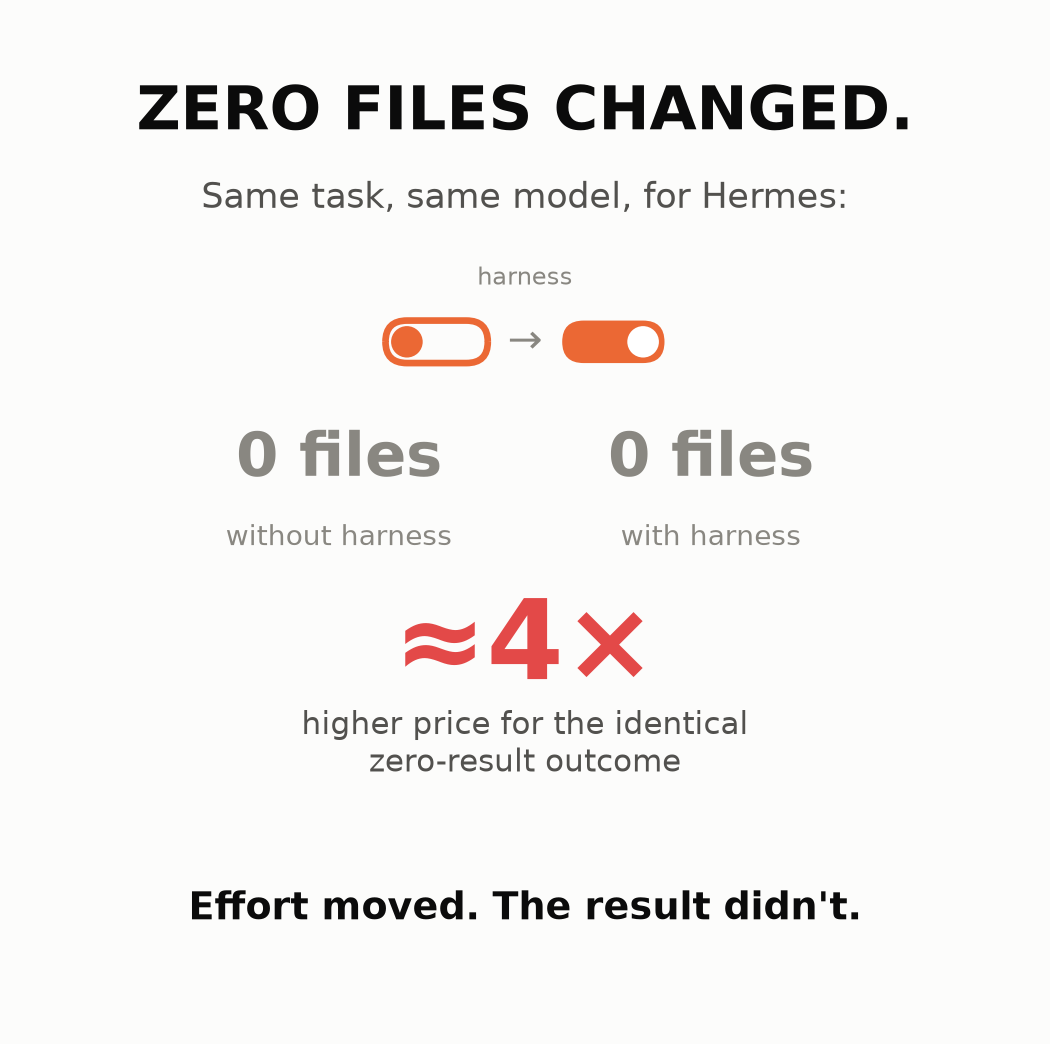
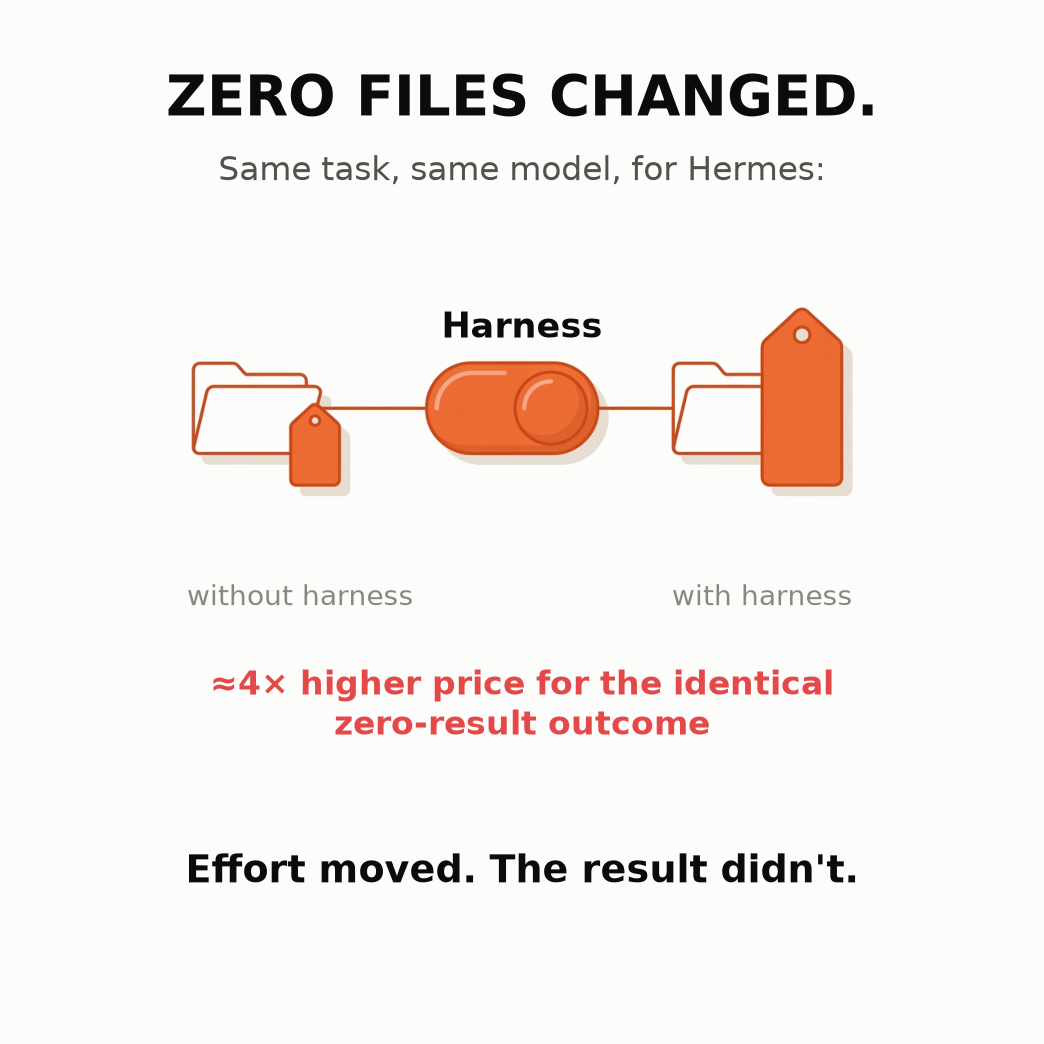
piece(harness-agents-pt1): AI illustrations for all 5 LinkedIn cards
Same recipe as card3 (approved): Nano Banana Pro via OpenRouter, alpha-matted
to a uniform white background, "Harness" added as real overlaid text above
every switch (never asked of the image model - it garbles text reliably),
composed with matplotlib on top of the art.

- card1: two identical gauges flanking one switch, same needle position on
  both sides (nothing changed), green accent (DeepSeek Harness)
- card2: two scattered orange gauges (Hermes, two runs) vs one tidy blue
  gauge (Claude Code's harness effect) - needed a second attempt, the first
  tried a single dial with two ghosted needles and read as a blurry clock
  face rather than "noise"
- card4: two coin-stack drops (blue/Claude Code moderate, orange/Hermes
  much steeper) - no switch in this one, it's about model price tier, not
  the harness
- card5: empty-folder-and-price-tag pair flanking a switch, folder stays
  empty on both sides, price tag grows a lot on the "with harness" side

All 5 promoted to the main linkedin/ filenames (card1_quality_flat.png etc),
replacing the earlier pure-vector versions. Raw attempts, alpha-matted
intermediates and every prompt used kept in genart/ for reproducibility.

diff --git a/pieces/20261106_harness_agents_pt1/linkedin/genart/compose_all.py b/pieces/20261106_harness_agents_pt1/linkedin/genart/compose_all.py
@@ -1,0 +1,115 @@
+#!/usr/bin/env python3
+"""Compose the AI-generated illustrations for LinkedIn cards 1, 2, 4, 5 with
+their text overlay, mirroring card 3's finished recipe (alpha-matted art,
+extent sized to the art's true aspect ratio, "Harness" label added as real
+text wherever a switch appears in the art, never asked of the image model).
+"""
+import matplotlib
+matplotlib.use("Agg")
+import matplotlib.pyplot as plt
+import matplotlib.image as mpimg
+
+BLUE = "#2a78d6"
+ORANGE = "#eb6834"
+AQUA = "#1baf7a"
+RED = "#e34948"
+INK = "#0b0b0b"
+SEC_INK = "#52514e"
+MUTED = "#898781"
+SURFACE = "#fcfcfb"
+
+G = "/home/harness/harness-projects/256/.worktrees/folder-304/session-c792b49e-e286eed0/pieces/20261106_harness_agents_pt1/linkedin/genart"
+
+
+def art_box(art_path, box_w, cx, cy):
+    art = mpimg.imread(art_path)
+    h, w = art.shape[0], art.shape[1]
+    box_h = box_w * h / w
+    x0, x1 = cx - box_w / 2, cx + box_w / 2
+    y0, y1 = cy - box_h / 2, cy + box_h / 2
+    return art, (x0, x1, y0, y1)
+
+
+def new_fig():
+    fig, ax = plt.subplots(figsize=(6, 6), dpi=200)
+    fig.patch.set_facecolor(SURFACE)
+    ax.set_facecolor(SURFACE)
+    ax.set_xlim(0, 10)
+    ax.set_ylim(0, 10)
+    ax.axis("off")
+    return fig, ax
+
+
+def save(fig, name):
+    fig.savefig(f"{G}/{name}.png", facecolor=SURFACE, bbox_inches="tight", pad_inches=0.3)
+    plt.close(fig)
+    print("wrote", name)
+
+
+# =====================================================================
+# CARD 1 — quality didn't move
+# =====================================================================
+fig, ax = new_fig()
+ax.text(5, 9.55, "SAME AGENT. HARNESS ON vs OFF.", fontsize=13.5, color=MUTED, ha="center", fontweight="bold")
+ax.text(5, 8.75, "One task, 3 agents — the only one\nwhere quality varied at all:", fontsize=12, color=SEC_INK, ha="center")
+
+art, (x0, x1, y0, y1) = art_box(f"{G}/card1_transparent.png", box_w=7.0, cx=5.0, cy=6.0)
+ax.imshow(art, extent=[x0, x1, y0, y1], zorder=2)
+ax.text(5.0, y0 + 0.78 * (y1 - y0), "Harness", fontsize=13, color=INK, ha="center", va="center", fontweight="bold", zorder=3)
+
+ax.text(5, 3.5, "DeepSeek Harness, Claude Code, Hermes —\nthree different levels, same answer every time.", fontsize=11.5, color=SEC_INK, ha="center")
+ax.text(5, 1.4, "Quality didn't move once — for any of the three.", fontsize=13.5, color=INK, ha="center", fontweight="bold")
+save(fig, "card1_FINAL")
+
+# =====================================================================
+# CARD 2 — run it twice
+# =====================================================================
+fig, ax = new_fig()
+ax.text(5, 9.4, "RUN IT TWICE.", fontsize=20, color=INK, ha="center", fontweight="bold")
+ax.text(5, 8.7, "Same task. Same settings. Nothing changed.", fontsize=12, color=SEC_INK, ha="center")
+
+art, (x0, x1, y0, y1) = art_box(f"{G}/card2_transparent.png", box_w=7.6, cx=5.0, cy=6.1)
+ax.imshow(art, extent=[x0, x1, y0, y1], zorder=2)
+
+ax.text(2.85, 3.5, "Hermes —\ntwo identical runs", fontsize=10.5, color=SEC_INK, ha="center")
+ax.text(7.7, 3.5, "Claude Code's loudest\nharness effect in the test", fontsize=10.5, color=SEC_INK, ha="center")
+
+ax.text(5, 1.4, "The agent's own noise outsized\nthe harness effect we were testing.", fontsize=13, color=INK, ha="center", fontweight="bold")
+save(fig, "card2_FINAL")
+
+# =====================================================================
+# CARD 4 — bigger isn't always better
+# =====================================================================
+fig, ax = new_fig()
+ax.text(5, 9.4, "SAME ADVICE: “USE THE CHEAPER MODEL.”", fontsize=12.5, color=MUTED, ha="center", fontweight="bold")
+ax.text(5, 8.7, "Two agents, same cheap/pricier pair, same tasks:", fontsize=11.5, color=SEC_INK, ha="center")
+
+art, (x0, x1, y0, y1) = art_box(f"{G}/card4_transparent.png", box_w=7.6, cx=5.0, cy=6.2)
+ax.imshow(art, extent=[x0, x1, y0, y1], zorder=2)
+
+ax.text(2.85, 3.9, "Claude Code  (÷9)", fontsize=12, color=BLUE, ha="center", fontweight="bold")
+ax.text(7.7, 3.9, "Hermes  (÷56)", fontsize=12, color=ORANGE, ha="center", fontweight="bold")
+
+ax.text(5, 2.5, "On the one task we could compare: Claude Code's quality fell\nby half on the cheap model — DeepSeek Harness held full marks.", fontsize=10.5, color=SEC_INK, ha="center")
+ax.text(5, 0.9, "Bigger isn't automatically better. Cheaper isn't automatically worse.", fontsize=12, color=INK, ha="center", fontweight="bold")
+save(fig, "card4_FINAL")
+
+# =====================================================================
+# CARD 5 — zero changes, higher price
+# =====================================================================
+fig, ax = new_fig()
+ax.text(5, 9.4, "ZERO FILES CHANGED.", fontsize=20, color=INK, ha="center", fontweight="bold")
+ax.text(5, 8.7, "Same task, same model, for Hermes:", fontsize=12, color=SEC_INK, ha="center")
+
+art, (x0, x1, y0, y1) = art_box(f"{G}/card5_transparent.png", box_w=7.6, cx=5.0, cy=6.3)
+ax.imshow(art, extent=[x0, x1, y0, y1], zorder=2)
+ax.text(5.0, y0 + 0.82 * (y1 - y0), "Harness", fontsize=12.5, color=INK, ha="center", va="center", fontweight="bold", zorder=3)
+
+ax.text(2.6, 4.1, "without harness", fontsize=10, color=MUTED, ha="center")
+ax.text(7.6, 4.1, "with harness", fontsize=10, color=MUTED, ha="center")
+
+ax.text(5, 2.7, "≈4× higher price for the identical\nzero-result outcome", fontsize=12, color=RED, ha="center", fontweight="bold")
+ax.text(5, 1.1, "Effort moved. The result didn't.", fontsize=13.5, color=INK, ha="center", fontweight="bold")
+save(fig, "card5_FINAL")
+
+print("done")
